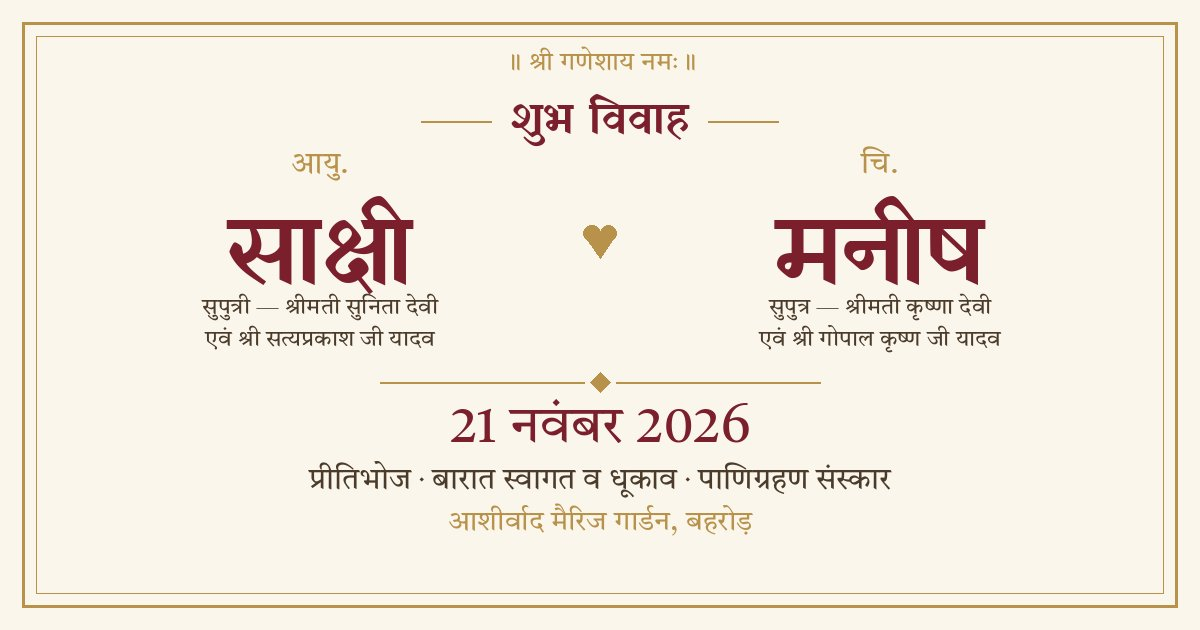
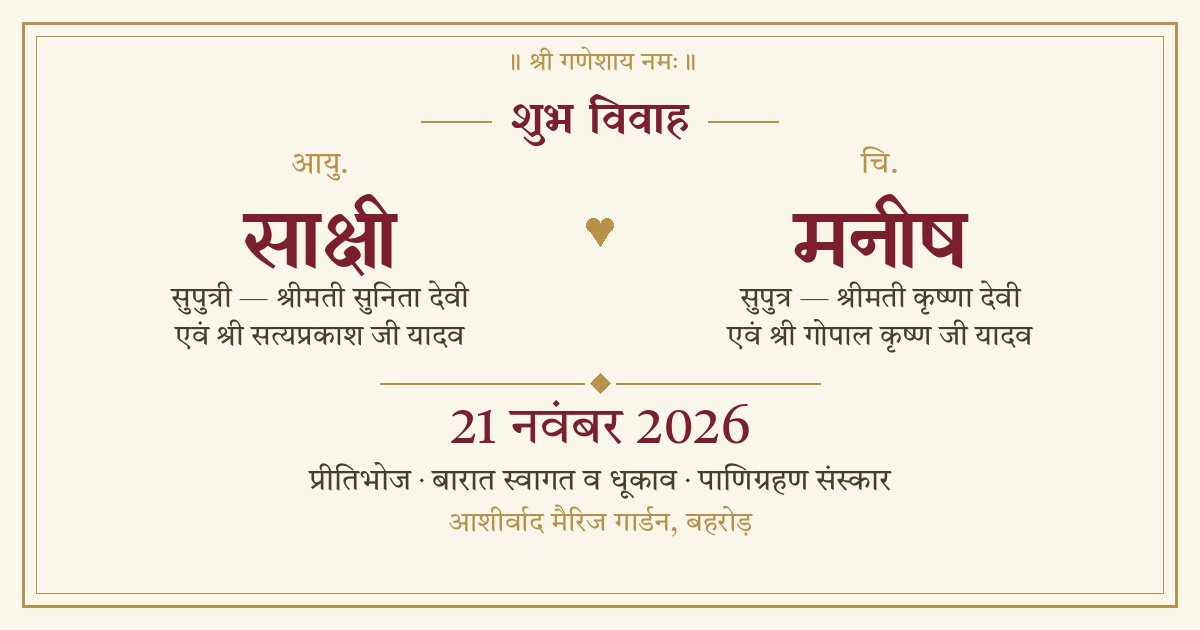
Preview: larger parents' names

diff --git a/sakshi-manish/index.html b/sakshi-manish/index.html
@@ -9,7 +9,7 @@
 <meta property="og:title" content="आयु. साक्षी ❤ चि. मनीष — शुभ विवाह निमंत्रण">
 <meta property="og:description" content="21 नवंबर 2026 · आशीर्वाद मैरिज गार्डन, बहरोड़ · आयु. साक्षी संग चि. मनीष के मंगल विवाह में आपको सपरिवार सादर आमंत्रित करते हैं।">
 <meta property="og:url" content="https://manish-sakshi-wedding.pages.dev/sakshi-manish/">
-<meta property="og:image" content="https://manish-sakshi-wedding.pages.dev/sakshi-manish/og.jpg?v=b7fc5a2526">
+<meta property="og:image" content="https://manish-sakshi-wedding.pages.dev/sakshi-manish/og.jpg?v=7635ccc547">
 <meta property="og:image:width" content="1200">
 <meta property="og:image:height" content="630">
 <meta name="twitter:card" content="summary_large_image">

diff --git a/index.html b/index.html
@@ -9,7 +9,7 @@
 <meta property="og:title" content="मनीष ❤ साक्षी — प्रीतिभोज (19 नवं) एवं शुभ विवाह (21 नवं 2026)">
 <meta property="og:description" content="🍽 प्रीतिभोज: 19 नवंबर 2026 (नीमकाथाना) · 💍 पाणिग्रहण संस्कार: 21 नवंबर (बहरोड़) · आपको सपरिवार सादर आमंत्रित करते हैं।">
 <meta property="og:url" content="https://manish-sakshi-wedding.pages.dev/">
-<meta property="og:image" content="https://manish-sakshi-wedding.pages.dev/og.jpg?v=6d9d4b3630">
+<meta property="og:image" content="https://manish-sakshi-wedding.pages.dev/og.jpg?v=42c8a1d54f">
 <meta property="og:image:width" content="1200">
 <meta property="og:image:height" content="630">
 <meta name="twitter:card" content="summary_large_image">
